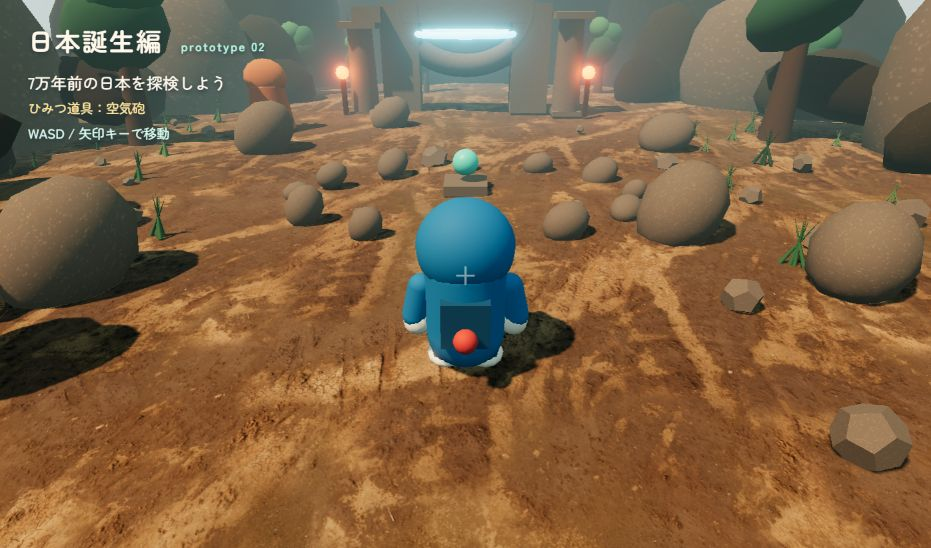
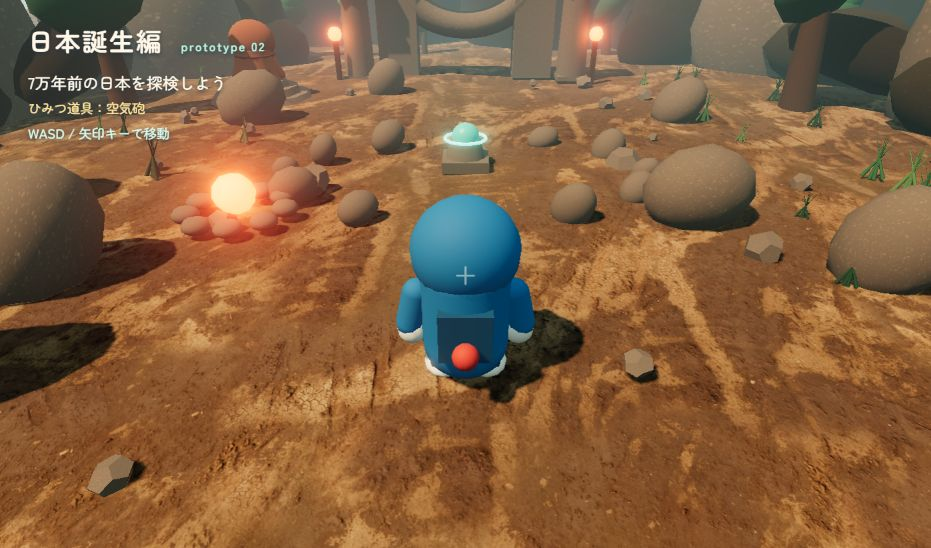
Enhance gameplay props and ritual objects

diff --git a/src/main.ts b/src/main.ts
@@ -382,18 +382,51 @@ fallenTrunk(-12, 10, 4.8, 0.25)
 fallenTrunk(13, 13, 5.6, -0.45)
 
 // An original clay-dogū altar and a glowing time-rift silhouette anchor the theme.
+const clay = mat(0xa85e42, 0.9)
+const clayDark = mat(0x713b31, 0.96)
+const runeMaterial = new THREE.MeshStandardMaterial({ color: 0x7cf2df, emissive: 0x27aa9b, emissiveIntensity: 2.2, roughness: 0.42 })
+const altar = new THREE.Group()
+for (const [radius, height, y] of [[2.25, 0.28, 0.14], [1.75, 0.32, 0.43], [1.28, 0.22, 0.7]] as [number, number, number][]) {
+  const slab = new THREE.Mesh(new THREE.CylinderGeometry(radius, radius * 1.08, height, 12), stoneLight)
+  slab.position.set(-10, y, -9)
+  slab.castShadow = slab.receiveShadow = true
+  altar.add(slab)
+}
+const altarRune = new THREE.Mesh(new THREE.TorusGeometry(1.02, 0.045, 6, 32), runeMaterial)
+altarRune.position.set(-10, 0.83, -9)
+altarRune.rotation.x = Math.PI / 2
+altar.add(altarRune)
+scene.add(altar)
 const dogu = new THREE.Group()
-const doguBody = new THREE.Mesh(new THREE.CylinderGeometry(0.65, 0.9, 1.55, 8), mat(0xb96542, 0.88))
+const doguBody = new THREE.Mesh(new THREE.CylinderGeometry(0.65, 0.9, 1.55, 10), clay)
 doguBody.position.y = 0.9
 dogu.add(doguBody)
-const doguHead = new THREE.Mesh(new THREE.SphereGeometry(0.7, 12, 8), mat(0xd07a4e, 0.86))
+const doguHead = new THREE.Mesh(new THREE.SphereGeometry(0.7, 16, 12), clay)
 doguHead.position.y = 1.95
 doguHead.scale.set(1.15, 0.95, 0.65)
 dogu.add(doguHead)
+for (const y of [0.55, 1.02, 1.48]) {
+  const band = new THREE.Mesh(new THREE.TorusGeometry(0.72 - (y - 0.55) * 0.08, 0.045, 6, 20), clayDark)
+  band.position.y = y
+  band.rotation.x = Math.PI / 2
+  dogu.add(band)
+}
+for (const x of [-0.72, 0.72]) {
+  const arm = new THREE.Mesh(new THREE.CapsuleGeometry(0.13, 0.5, 5, 8), clay)
+  arm.position.set(x, 1.04, -0.02)
+  arm.rotation.z = x < 0 ? -0.48 : 0.48
+  dogu.add(arm)
+}
 for (const x of [-0.25, 0.25]) {
-  const hole = new THREE.Mesh(new THREE.SphereGeometry(0.12, 8, 6), new THREE.MeshStandardMaterial({ color: 0x3d241f, roughness: 1 }))
+  const hole = new THREE.Mesh(new THREE.SphereGeometry(0.13, 10, 8), new THREE.MeshStandardMaterial({ color: 0x241817, roughness: 1 }))
   hole.position.set(x, 2.05, -0.58)
   dogu.add(hole)
+}
+for (const x of [-0.42, 0.42]) {
+  const cheek = new THREE.Mesh(new THREE.TorusGeometry(0.16, 0.035, 5, 12), clayDark)
+  cheek.position.set(x, 1.72, -0.56)
+  cheek.rotation.x = Math.PI / 2
+  dogu.add(cheek)
 }
 dogu.position.set(-10, 0, -9)
 dogu.scale.setScalar(1.35)
@@ -457,6 +490,31 @@ const switchOrb = new THREE.Mesh(new THREE.SphereGeometry(0.45, 16, 12), mat(0x5
 switchOrb.position.set(0, 1, 1)
 switchOrb.castShadow = true
 scene.add(switchOrb)
+const switchPedestal = new THREE.Mesh(new THREE.CylinderGeometry(0.48, 0.72, 0.72, 10), stone)
+switchPedestal.position.set(0, 0.58, 1)
+switchPedestal.castShadow = switchPedestal.receiveShadow = true
+scene.add(switchPedestal)
+const switchHalo = new THREE.Mesh(new THREE.TorusGeometry(0.66, 0.055, 6, 28), runeMaterial)
+switchHalo.position.set(0, 0.96, 1)
+switchHalo.rotation.x = Math.PI / 2
+scene.add(switchHalo)
+
+// A small prehistoric firepit gives the empty mid-ground a believable human trace.
+const emberMaterial = new THREE.MeshStandardMaterial({ color: 0xffa33e, emissive: 0xff3b0f, emissiveIntensity: 4.5, roughness: 0.6 })
+for (let i = 0; i < 9; i++) {
+  const a = (i / 9) * Math.PI * 2
+  const stoneRing = new THREE.Mesh(new THREE.DodecahedronGeometry(0.35, 1), stoneLight)
+  stoneRing.position.set(-6 + Math.cos(a) * 1.25, 0.28, 5 + Math.sin(a) * 1.25)
+  stoneRing.scale.y = 0.65
+  stoneRing.castShadow = stoneRing.receiveShadow = true
+  scene.add(stoneRing)
+}
+const ember = new THREE.Mesh(new THREE.IcosahedronGeometry(0.55, 1), emberMaterial)
+ember.position.set(-6, 0.68, 5)
+scene.add(ember)
+const fireLight = new THREE.PointLight(0xff7138, 2.5, 8, 2)
+fireLight.position.set(-6, 1.2, 5)
+scene.add(fireLight)
 
 // The gate is intentionally open in the center so it does not occlude the player.
 const door = box([5.2, 0.85, 0.9], [0, 5.9, -15], stoneLight)
